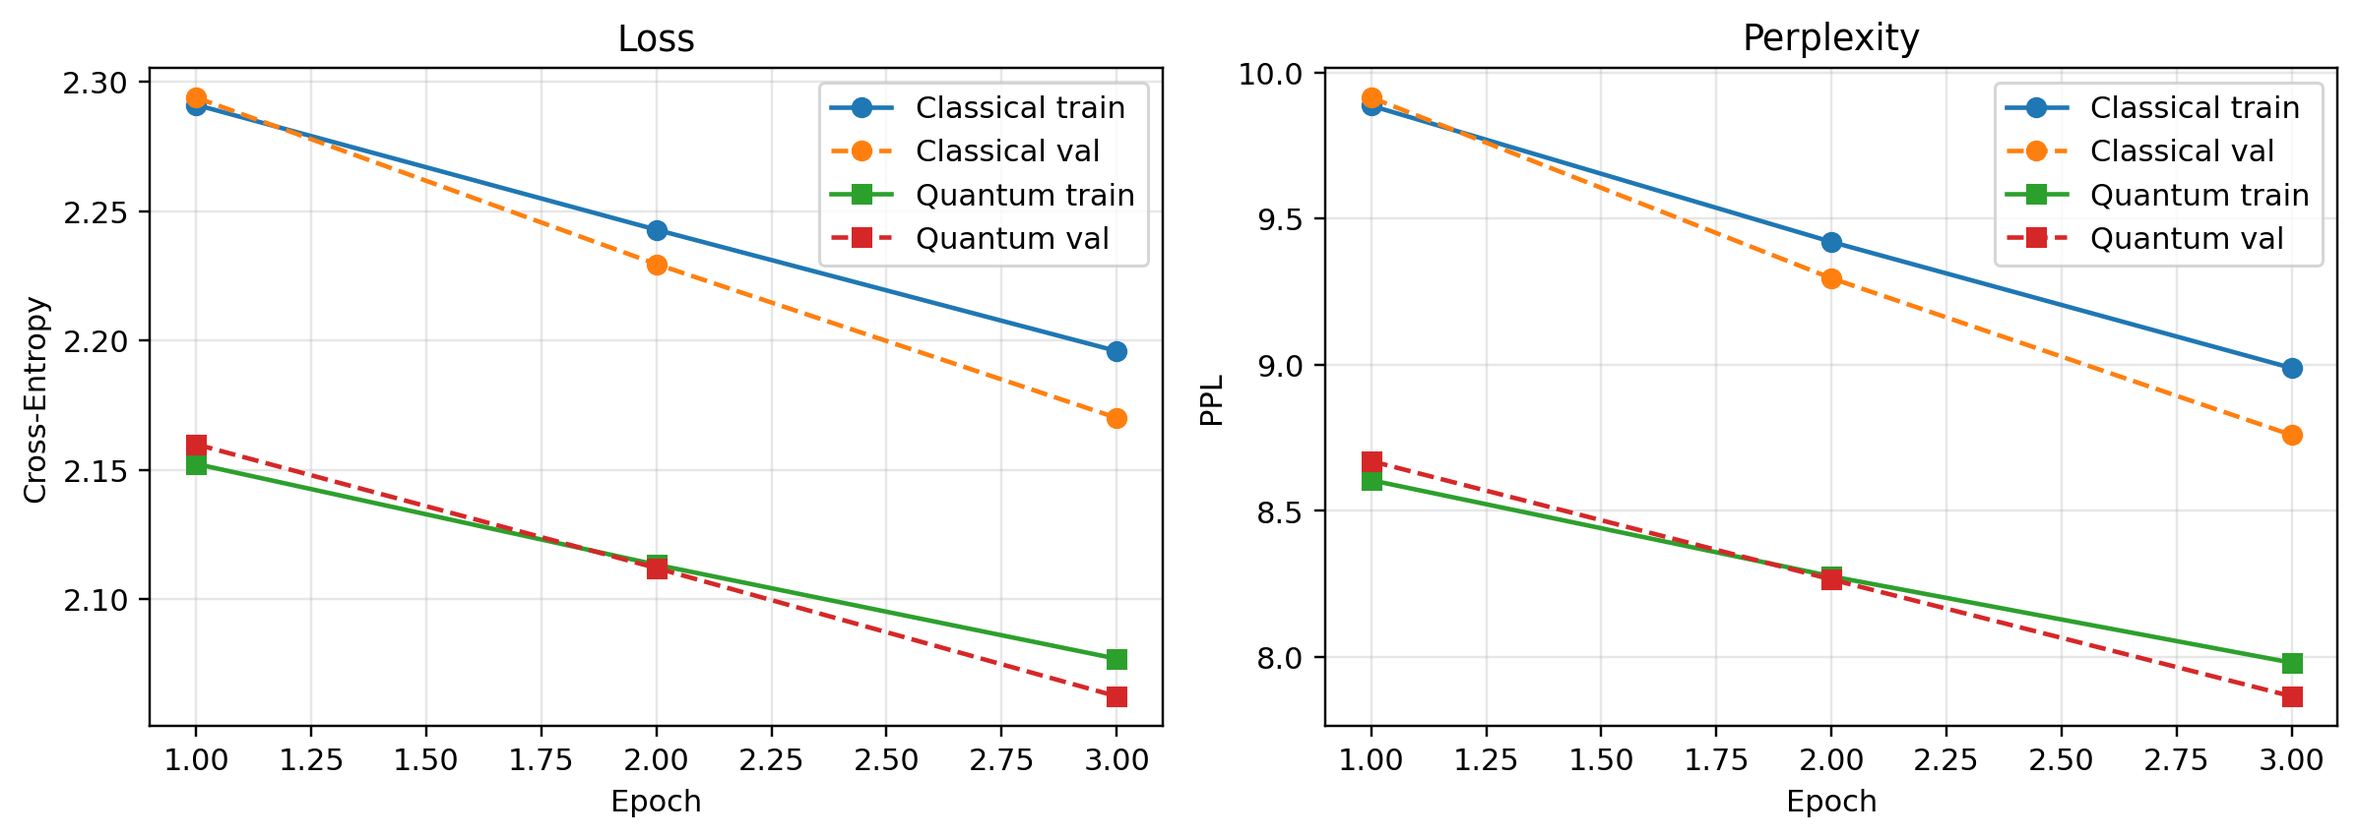
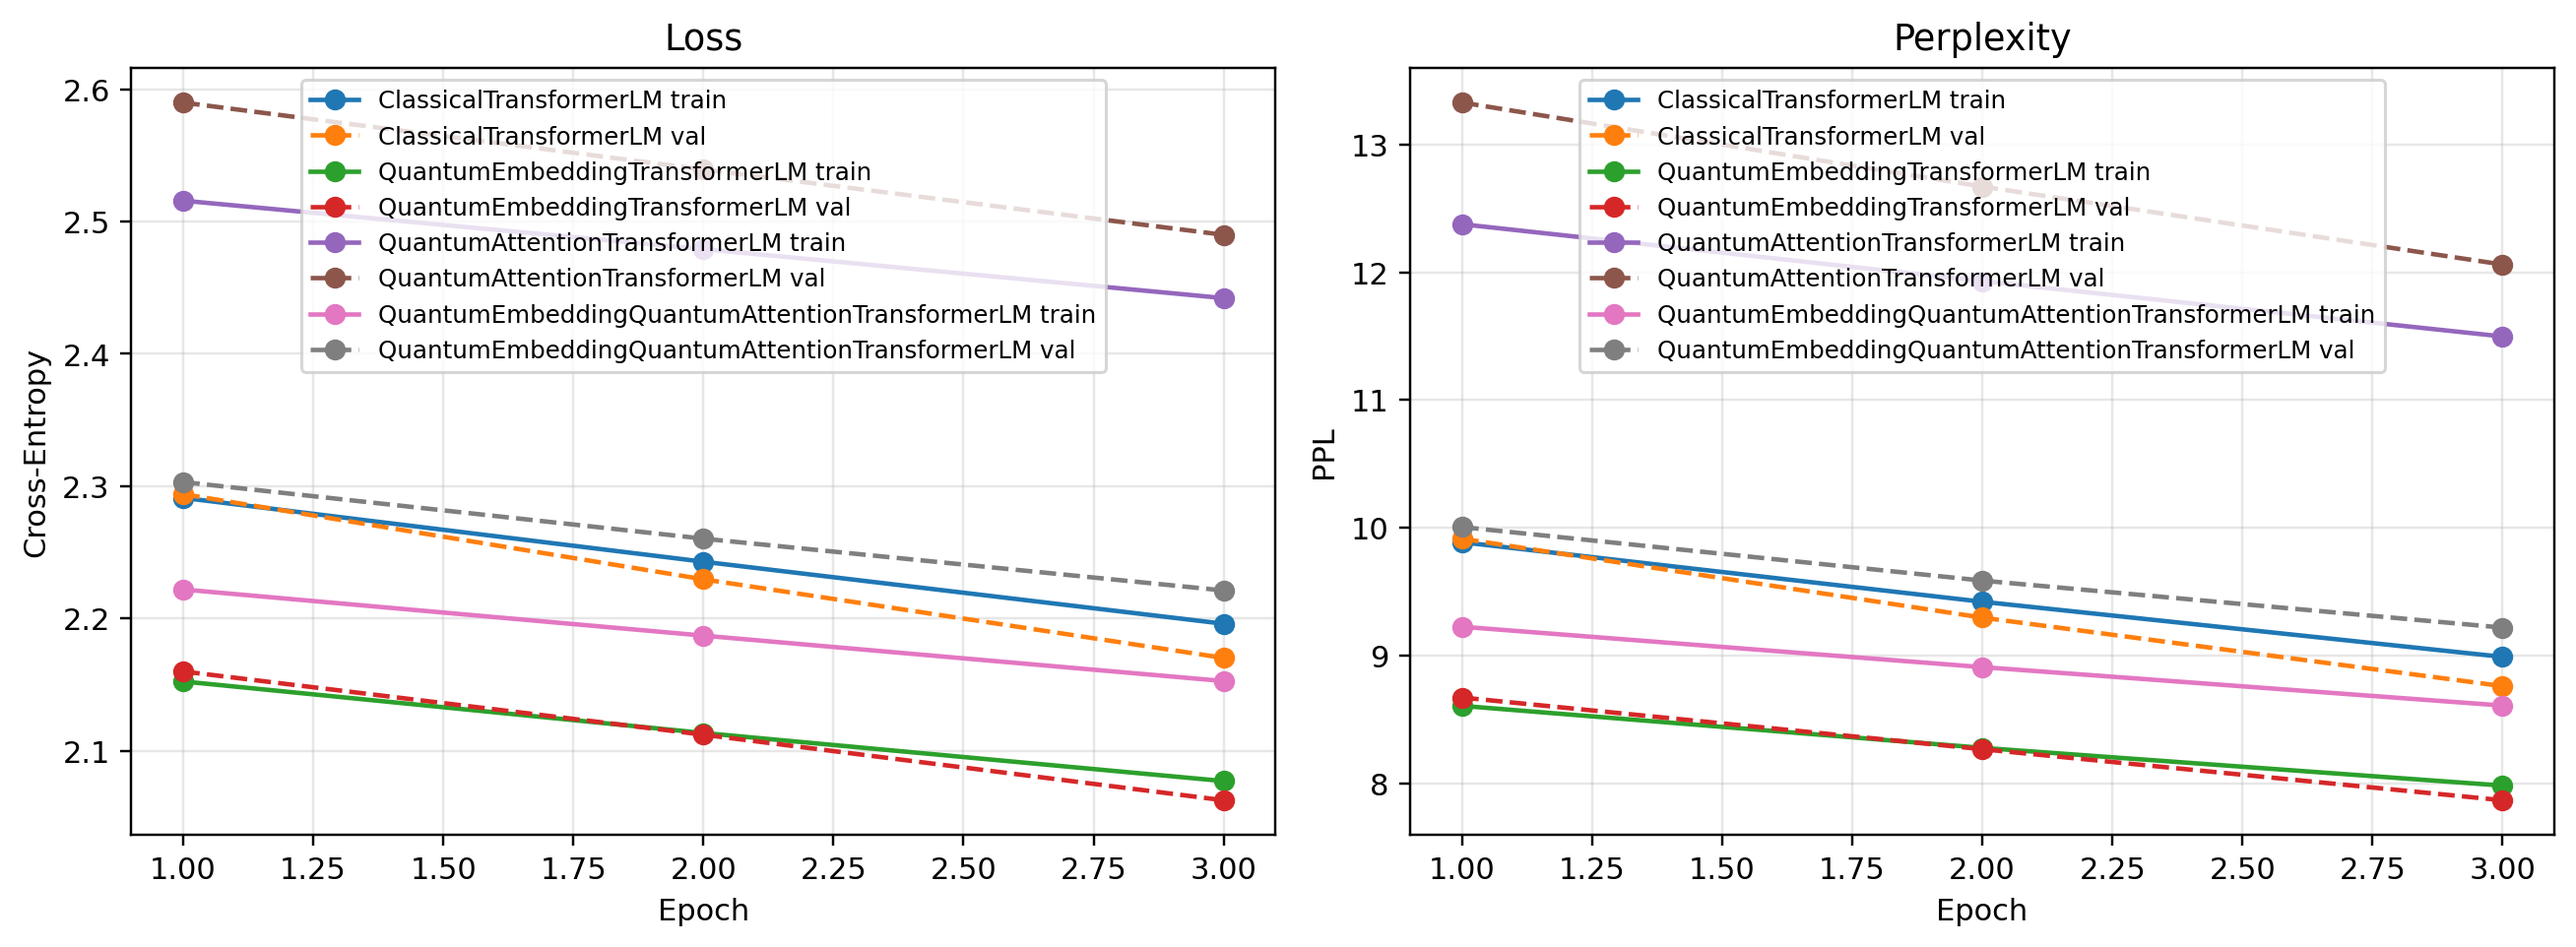
Update README for quantum attention harness

diff --git a/README.md b/README.md
@@ -1,9 +1,9 @@
 # QuantumAttention
 
-This repository explores a **hybrid quantum\-classical transformer** where classical embedding and attention layers can be replaced with quantum counterparts. The overall architecture follows this high-level flow:
+This repository explores a **hybrid quantum\-classical transformer** where classical embedding and attention layers can be replaced with quantum counterparts. The repo now supports multiple interchangeable language-model variants rather than a single fixed pipeline.
 
 ```
-Input Tokens → Quantum Embedding → Classical Processing → Quantum Attention → Classical Output
+Input Tokens → {Classical or Quantum Embedding} → {Classical or Quantum Attention} → Classical Output Head
 ```
 
 Key components include a quantum embedding layer implemented with **parameterized quantum circuits (PQCs)**, a hybrid attention mechanism and standard transformer blocks. The goal is to investigate how quantum features might enrich language models on near term (NISQ) hardware.
@@ -23,9 +23,23 @@ The implementation can be found in [`src/quantum_embedding.py`](src/quantum_embe
 
 The quantum attention implementation lives in [`src/quantum_attention.py`](src/quantum_attention.py).
 
-- `QuantumAttention`: single-head SWAP-test-based attention.
+- `QuantumAttention`: single-head attention with two score backends:
+  - `swap_test`: PennyLane-backed overlap estimation
+  - `fidelity`: fast PyTorch overlap approximation for development and benchmarking
 - `HybridMultiHeadAttention`: true multi-head wrapper that splits the embedding dimension across heads, runs one quantum head per split, then merges results with an output projection.
-- Returned attention weights are averaged across heads for a stable `(seq_len, batch_size, seq_len)` interface.
+- Supports transformer-style `attn_mask` and `key_padding_mask`, including causal masking for autoregressive language models.
+- Returned attention weights are averaged across heads by default for a stable `(seq_len, batch_size, seq_len)` interface.
+
+## Language Model Variants
+
+The language-model stack in [`src/transformer_lm.py`](src/transformer_lm.py) now supports four benchmarkable variants:
+
+- `ClassicalTransformerLM`
+- `QuantumEmbeddingTransformerLM`
+- `QuantumAttentionTransformerLM`
+- `QuantumEmbeddingQuantumAttentionTransformerLM`
+
+This makes it possible to compare embedding-only, attention-only, and fully hybrid quantum variants side by side.
 
 ## Training Comparison
 
@@ -65,21 +79,32 @@ Run language-model comparison on a real corpus:
 python train_lm_generation_compare.py --dataset ptb --epochs 2
 ```
 
-Other dataset options:
+Useful options:
 
 - `--dataset wikitext2` (download on first run)
 - `--dataset tiny` (offline fallback, fastest)
+- `--models classical,quantum_embedding,quantum_attention,full_quantum`
+- `--score_mode fidelity` for the fast benchmark path, or `--score_mode swap_test` for the quantum SWAP-test path
+- `--metrics_path artifacts/lm_benchmark_metrics.json` to save structured benchmark output
+
+The LM benchmark harness records:
+
+- train/validation loss and perplexity
+- per-epoch timing
+- parameter counts
+- generations for each selected model
+- plot output plus JSON metrics artifacts
 
 CI is configured in `.github/workflows/ci.yml` and runs tests on Python 3.10 and 3.11 for pushes and pull requests.
 
 ## Latest Performance Snapshot
 
-Last updated: **2026-03-27**
+Last updated: **2026-04-02**
 
 Benchmark command:
 
 ```bash
-python train_lm_generation_compare.py --dataset tiny --epochs 3 --train_steps 80 --eval_steps 20 --vocab_max 200 --block 4 --seed 42 --plot_path lm_generation_comparison.png
+python train_lm_generation_compare.py --dataset tiny --epochs 3 --train_steps 80 --eval_steps 20 --vocab_max 200 --block 4 --seed 42 --models classical,quantum_embedding,quantum_attention,full_quantum --score_mode fidelity --plot_path lm_generation_comparison.png --metrics_path artifacts/lm_benchmark_metrics.json
 ```
 
 Results from the latest run (CPU):
@@ -88,6 +113,8 @@ Results from the latest run (CPU):
 | --- | ---: | ---: | ---: | ---: |
 | ClassicalTransformerLM | 2.1960 | 8.99 | 2.1701 | 8.76 |
 | QuantumEmbeddingTransformerLM | 2.0771 | 7.98 | 2.0625 | 7.87 |
+| QuantumAttentionTransformerLM | 2.4421 | 11.50 | 2.4899 | 12.06 |
+| QuantumEmbeddingQuantumAttentionTransformerLM | 2.1526 | 8.61 | 2.2211 | 9.22 |
 
 Latest benchmark plot (same run as table above):
 
